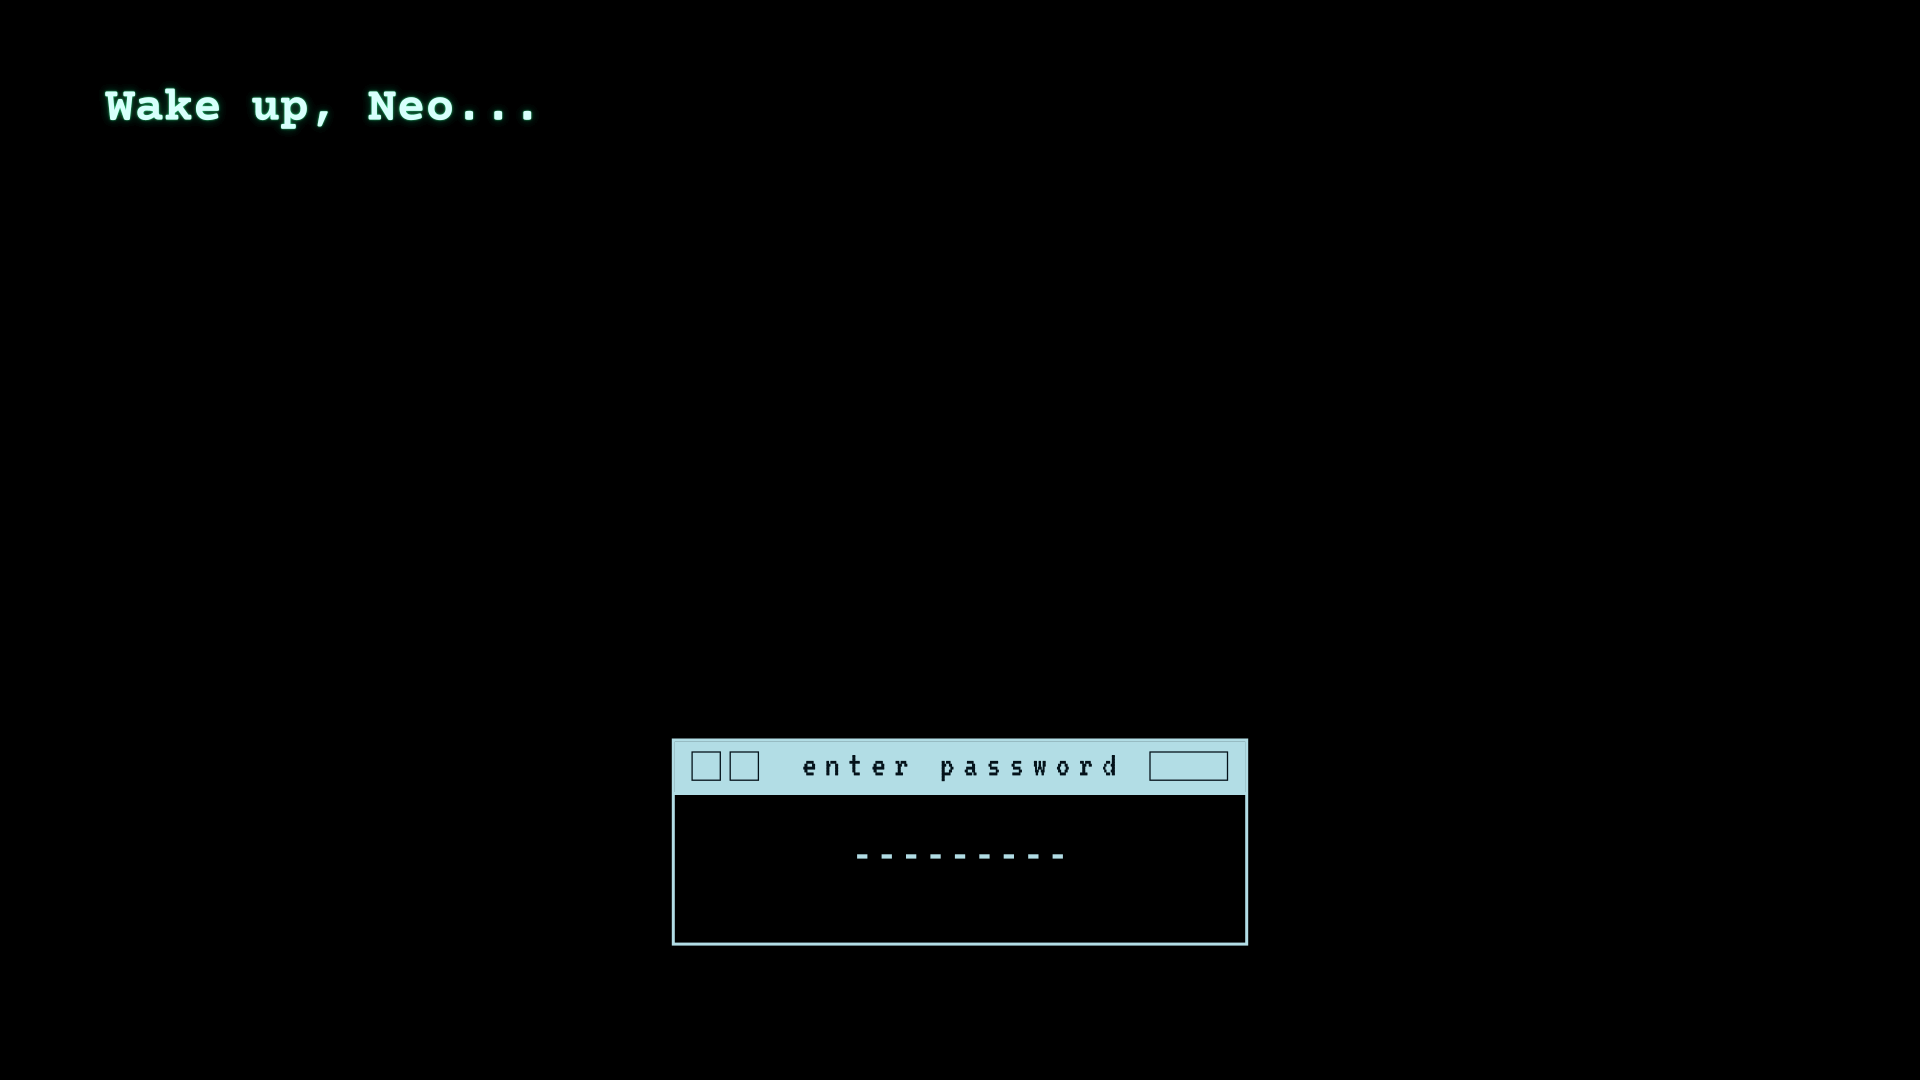
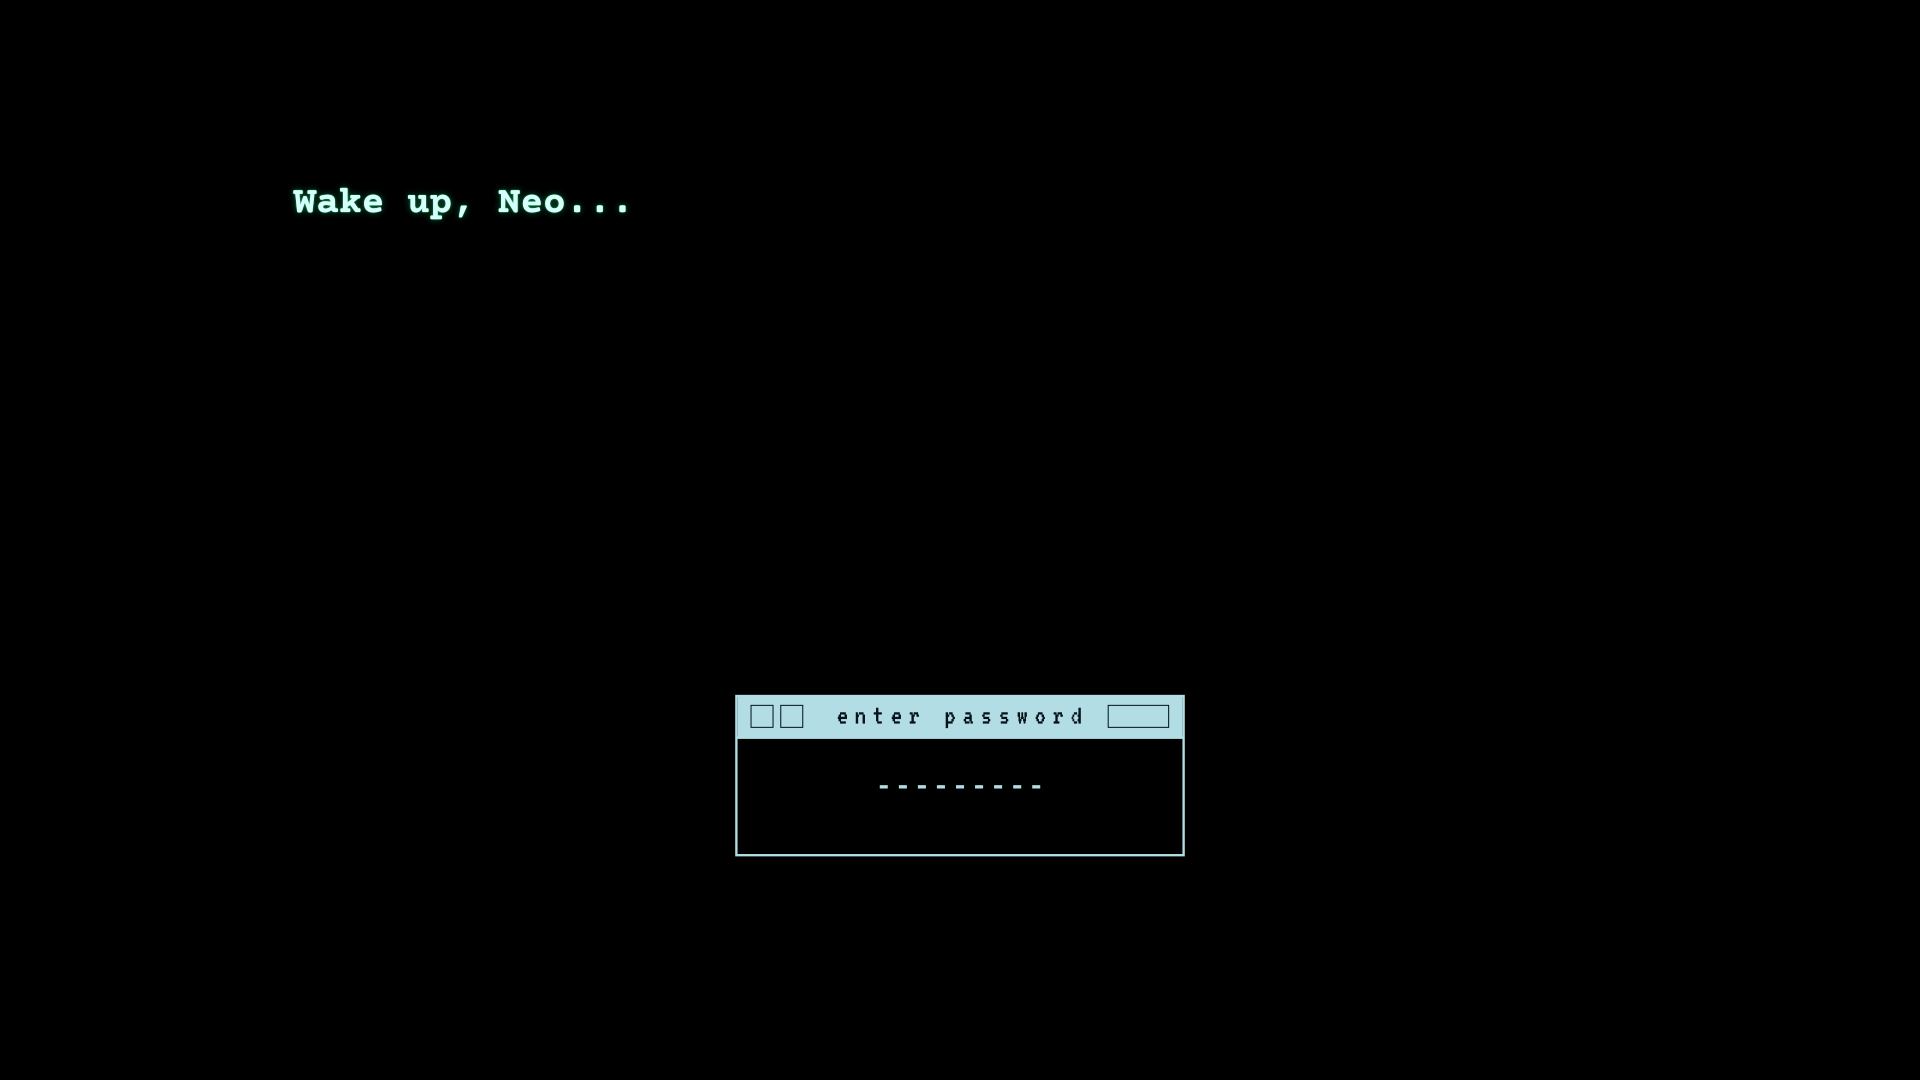
Zoom the Unlock card out so the picker stops cropping it
The unlock picker crops the 1920x1080 card to a taller cell and
cut the W off Wake up. Compose at 0.78 centred, so the line and
the panel keep clear margins under the crop.

diff --git a/tools/generate-brand.py b/tools/generate-brand.py
@@ -181,17 +181,25 @@ def brand(w=1108, h=523):
 
 
 def preview_unlock(w=1920, h=1080):
-    """The splash as it looks: the typed line over the passphrase panel."""
+    """The splash as it looks: the typed line over the passphrase panel.
+
+    The composition is scaled to 0.78 about the canvas centre: the picker's
+    thumbnail centre-crops to a taller cell and the QML cell crops the
+    sides further, so edge-to-edge content does not survive there."""
     line_w = 15 / 21 * 0.32 * w       # this line's share of the typed width
     size = line_w / (15 * 0.6028)     # Courier Prime Bold is a 0.6 face
     panel_w = 0.30 * w
     panel_h = 483 / 1346 * panel_w
+    zoom = 0.78
     return f'''<svg xmlns="http://www.w3.org/2000/svg" width="{w}" height="{h}">
   <defs>{halo_defs(size)}</defs>
   <rect width="{w}" height="{h}" fill="{BG}"/>
+  <g transform="translate({w / 2},{h / 2}) scale({zoom})
+                translate({-w / 2},{-h / 2})">
   {typed_line(f"{0.055 * w:.1f}", f"{0.085 * h + 0.572 * size:.1f}",
               round(size, 1), anchor="start")}
   {panel((w - panel_w) / 2, 0.684 * h, panel_w)}
+  </g>
 </svg>'''
 
 
